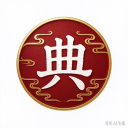
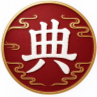
修复自动选取不稳定问题，更换icon

diff --git a/src/content.js b/src/content.js
@@ -1,88 +1,66 @@
 let isActive = false;
-let wrapSpan = null;
-let hoverTimer = null;
-let lastChar = null;
-let lastRangeKey = null;
 
 chrome.runtime.onMessage.addListener((msg) => {
   if (msg.type === "toggle") {
-    isActive = !isActive;
+    isActive = msg.active;
+    console.log("取字模式：", isActive ? "✅开启" : "❌关闭");
     if (!isActive) {
-      clearHover();
+      tipEl.classList.remove("show");
+      document.body.classList.remove("zdic-hand-cursor"); // 移除小手
+    } else {
+      document.body.classList.add("zdic-hand-cursor"); // 开启小手
     }
-    console.log("取字模式：", isActive ? "开启" : "关闭");
   }
 });
 
-document.addEventListener("mousemove", (e) => {
-  if (!isActive) return;
+// 获取鼠标坐标下的汉字
+function getCharAtPoint(x, y) {
   const pos = document.caretPositionFromPoint
-    ? document.caretPositionFromPoint(e.clientX, e.clientY)
-    : document.caretRangeFromPoint(e.clientX, e.clientY);
-  if (!pos) {
-    clearHover();
-    return;
-  }
+    ? document.caretPositionFromPoint(x, y)
+    : document.caretRangeFromPoint(x, y);
+  if (!pos) return null;
+
   const textNode = pos.offsetNode || pos.startContainer;
   const offset = pos.offset || pos.startOffset;
-  if (!textNode || textNode.nodeType !== Node.TEXT_NODE) {
-    clearHover();
-    return;
-  }
-  const text = textNode.textContent;
-  const char = text[offset];
-  if (!/[\u4e00-\u9fa5]/.test(char)) {
-    clearHover();
-    return;
-  }
-  // 用文本节点 + 偏移位置做唯一标识
-  const currentRangeKey = `${textNode}-${offset}`;
-  // 还在同一个字上，不重复处理
-  if (currentRangeKey === lastRangeKey && wrapSpan) {
-    return;
-  }
-  // 移动到新字，先清旧高亮
-  clearHover();
-  lastRangeKey = currentRangeKey;
-  lastChar = char;
-  // 防抖：鼠标停留 60ms 再包裹，避免快速移动时闪烁
-  if (hoverTimer) clearTimeout(hoverTimer);
-  hoverTimer = setTimeout(() => {
-    // 再次确认当前字没有变
-    if (currentRangeKey !== lastRangeKey) return;
-    wrapSpan = document.createElement("span");
-    wrapSpan.className = "zdic-word-mark";
-    wrapSpan.textContent = char;
-    const before = text.slice(0, offset);
-    const after = text.slice(offset + 1);
-    const beforeNode = document.createTextNode(before);
-    const afterNode = document.createTextNode(after);
-    const parent = textNode.parentNode;
-    parent.insertBefore(beforeNode, textNode);
-    parent.insertBefore(wrapSpan, textNode);
-    parent.insertBefore(afterNode, textNode);
-    parent.removeChild(textNode);
-  }, 60);
-});
 
+  if (!textNode || textNode.nodeType !== Node.TEXT_NODE) return null;
+  const ch = textNode.textContent[offset];
+
+  if (!/[\u4e00-\u9fa5]/.test(ch)) return null;
+  return { char: ch };
+}
+
+// 点击取字跳转
 document.addEventListener("click", (e) => {
   if (!isActive) return;
-  if (e.target.classList.contains("zdic-word-mark")) {
-    e.preventDefault();
-    const ch = e.target.textContent;
-    window.open(`https://zdic.net/hans/${encodeURIComponent(ch)}`, "_blank");
-  }
+  const res = getCharAtPoint(e.clientX, e.clientY);
+  if (!res) return;
+  e.preventDefault();
+  window.open(`https://zdic.net/hans/${encodeURIComponent(res.char)}`, "_blank");
 });
 
-function clearHover() {
-  if (hoverTimer) {
-    clearTimeout(hoverTimer);
-    hoverTimer = null;
-  }
-  if (!wrapSpan) return;
-  const parent = wrapSpan.parentNode;
-  if (!parent) return;
-  const textNode = document.createTextNode(wrapSpan.textContent);
-  parent.replaceChild(textNode, wrapSpan);
-  wrapSpan = null;
+// 悬浮提示tip
+let tipEl = null;
+function initTip() {
+  if (tipEl) return;
+  tipEl = document.createElement("div");
+  tipEl.id = "zdic-hover-tip";
+  document.body.appendChild(tipEl);
 }
+initTip();
+
+document.addEventListener("mousemove", (e) => {
+  if (!isActive) {
+    tipEl.classList.remove("show");
+    return;
+  }
+  const info = getCharAtPoint(e.clientX, e.clientY);
+  if (info) {
+    tipEl.textContent = info.char;
+    tipEl.style.left = (e.clientX + 12) + "px";
+    tipEl.style.top = (e.clientY + 12) + "px";
+    tipEl.classList.add("show");
+  } else {
+    tipEl.classList.remove("show");
+  }
+});

diff --git a/src/background.js b/src/background.js
@@ -1,7 +1,45 @@
+// 记录每个tab的开关状态
+const tabState = new Map();
+
 chrome.action.onClicked.addListener(async (tab) => {
+  if (!tab?.id) return;
+  const tabId = tab.id;
+  const newState = !tabState.get(tabId);
+  tabState.set(tabId, newState);
+
+  // 设置角标
+  if(newState){
+    await chrome.action.setBadgeText({tabId, text:"ON"});
+    await chrome.action.setBadgeBackgroundColor({tabId, color:"#28a745"});
+  }else{
+    await chrome.action.setBadgeText({tabId, text:""});
+  }
+
+  // 发送给content脚本
   try {
-    await chrome.tabs.sendMessage(tab.id, { type: "toggle" });
-  } catch (e) {
-    console.log("发送消息失败：页面content脚本未就绪，刷新页面重试");
+    await chrome.tabs.sendMessage(tabId, {
+      type:"toggle",
+      active: newState
+    });
+  }catch(e){
+    console.log("页面未就绪，请刷新网页");
   }
 });
+
+// 标签关闭，清理状态
+chrome.tabs.onRemoved.addListener((tabId)=>{
+  tabState.delete(tabId);
+});
+
+// 页面刷新后恢复角标
+chrome.tabs.onUpdated.addListener(async (tabId, info)=>{
+  if(info.status === "complete"){
+    const s = tabState.get(tabId);
+    if(s === true){
+      await chrome.action.setBadgeText({tabId, text:"ON"});
+      await chrome.action.setBadgeBackgroundColor({tabId, color:"#28a745"});
+    }else{
+      await chrome.action.setBadgeText({tabId, text:""});
+    }
+  }
+})

diff --git a/src/style.css b/src/style.css
@@ -1,7 +1,33 @@
-.zdic-word-mark {
-  background: #fff280 !important;
-  cursor: pointer !important;
+#zdic-hover-tip {
+  position: fixed;
+  z-index: 999999;
+  pointer-events: none;
+  background: #fff280;
+  color: #000;
+  padding: 2px 6px;
   border-radius: 3px;
-  padding: 0 1px;
-  transition: none !important;
+  font-size: 16px;
+  display: none;
+}
+#zdic-hover-tip.show {
+  display: block;
+}
+/* 开启插件模式全局小手光标 */
+body.zdic-hand-cursor * {
+  cursor: pointer !important;
+}
+
+#zdic-hover-tip {
+  position: fixed;
+  z-index: 999999;
+  pointer-events: none;
+  background: #fff280;
+  color: #000;
+  padding: 2px 6px;
+  border-radius: 3px;
+  font-size: 16px;
+  display: none;
+}
+#zdic-hover-tip.show {
+  display: block;
 }
